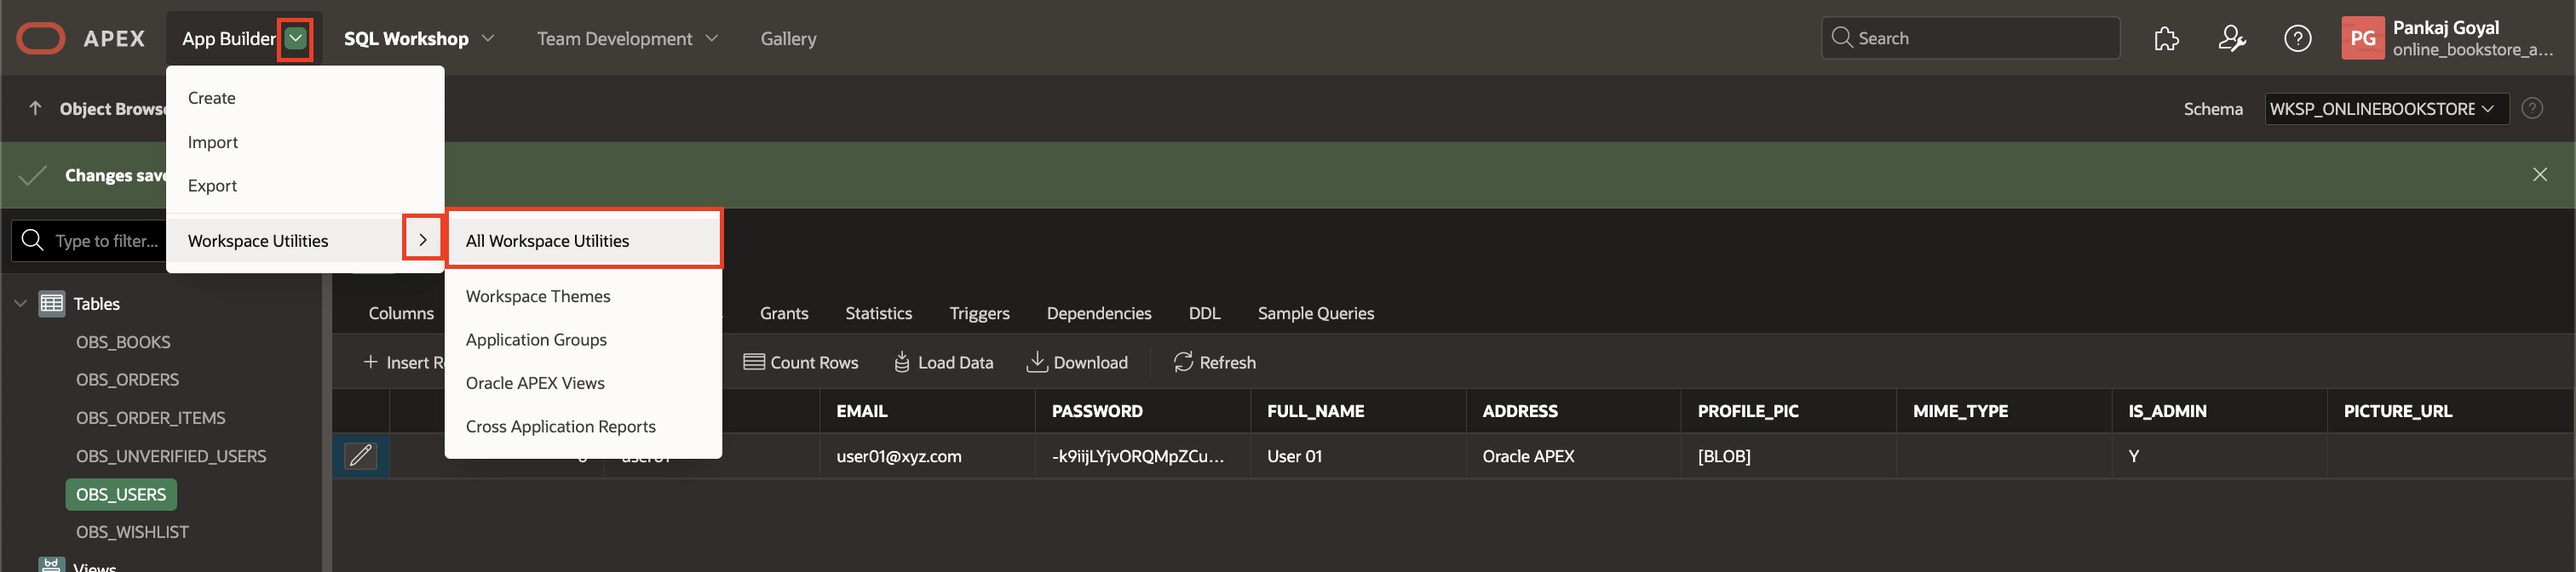
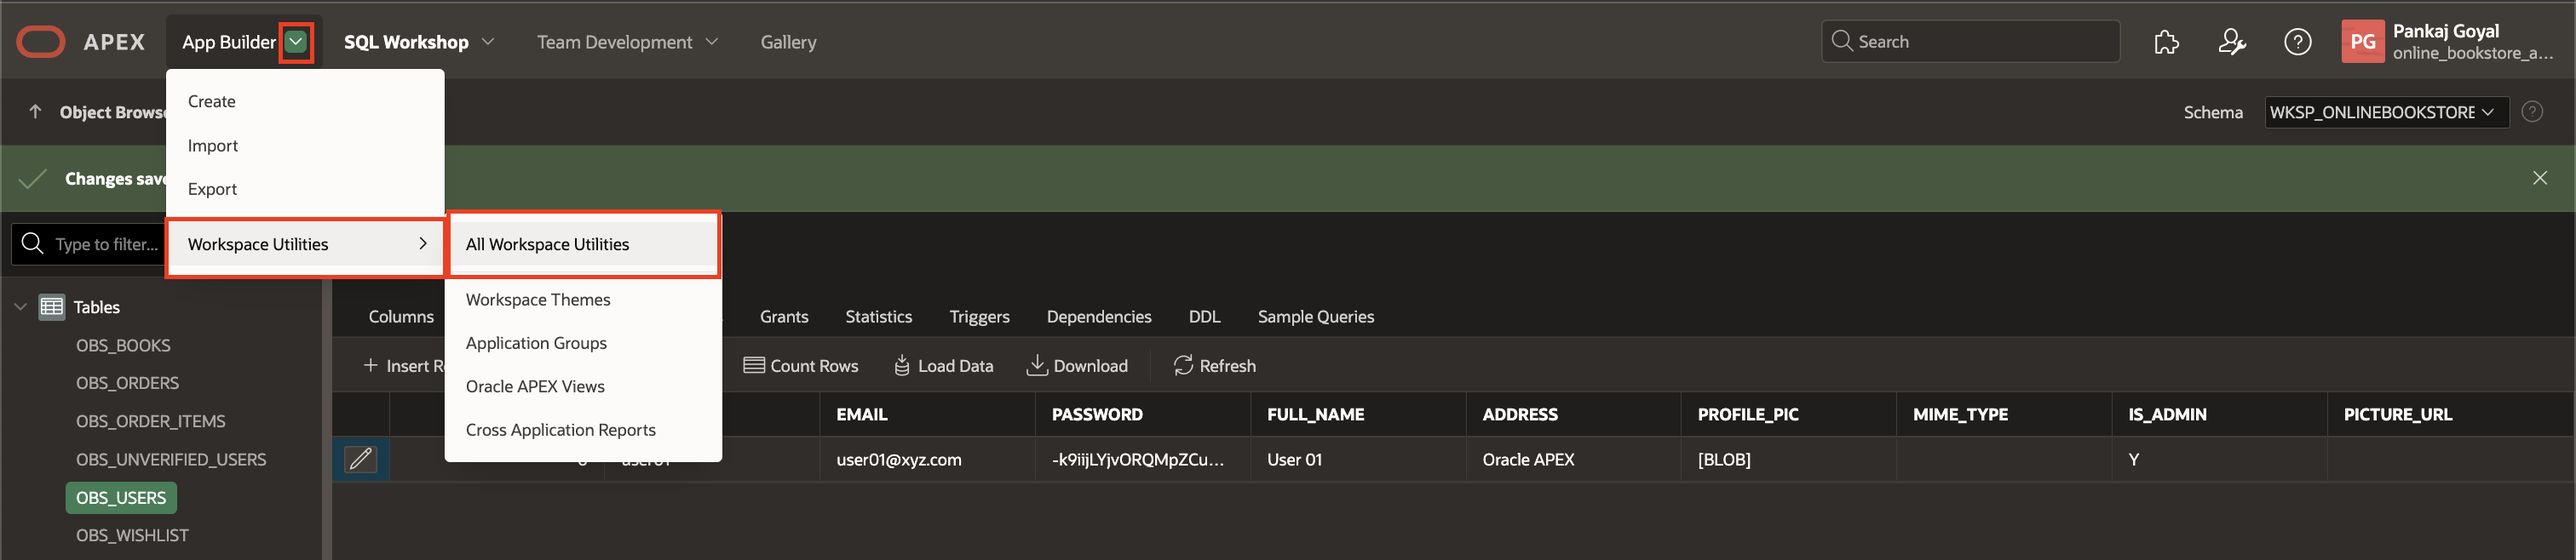
OBS 24.2 Feedback Fixes

diff --git a/online-bookstore-app/downloads/downloads.md b/online-bookstore-app/downloads/downloads.md
@@ -6,7 +6,7 @@ In this lab, you will learn how to download and import an export file of the app
 
 ## Task 1: Download the App Export
 
-1. Download a lab export zip file from any lab. The export file is available after the introduction in all labs. The export file in any lab contains everything completed up to before that lab. The export files in the introduction and Lab 1 are the complete app exports.
+1. Download a lab export ZIP file from any lab. The export file is available after the introduction in all labs. Each export file contains everything completed up to the start of that specific lab. The export files in the Introduction and Lab 1 contain the complete app export, which includes everything completed in all the labs except for the optional Lab 18.
 
 ## Task 2: Import the App into an APEX Workspace
 
@@ -48,7 +48,7 @@ In this lab, you will learn how to download and import an export file of the app
 
 ## Task 4: Update the Web Credential and Generative AI
 
-Note: If you already have an OCI key pair, you may skip the step 1.
+Note: If you already have an OCI key pair, you may skip Step 1.
 
 To Generate the API Keys using OCI Console:
 
@@ -56,7 +56,7 @@ To Generate the API Keys using OCI Console:
 
 To Configure Web Credentials in Oracle APEX:
 
-2. Expand **App Builder**, then **All Workspace Utilities** and click **Workspace Utilities**.
+2. Expand **App Builder**, then select **All Workspace Utilities** and click **Workspace Utilities**.
 
     !["Page Designer"](images/19-4-2.png "")
 
@@ -68,7 +68,7 @@ To Configure Web Credentials in Oracle APEX:
 
     !["Page Designer"](images/19-4-4.png "")
 
-5. Enter the following details using the configuration file you copied in the step 7 and click **Apply Changes**.
+5. Enter the following details using the configuration file you copied and click **Apply Changes**.
 
     - **OCI User ID**: Enter the OCID of the Oracle Cloud user Account. You can find the OCID in the Configuration File Preview generated during the API Key creation.
     Your OCI User ID looks similar to **ocid1.user.oc1..aaaaaaaa\*\*\*\*\*\*wj3v23yla**
@@ -125,7 +125,7 @@ To Enable Generative AI in Oracle APEX:
 
     !["Page Designer"](images/19-5-6.png "")
 
-7. Click **Picture\_URL**.
+7. Click **PICTURE\_URL**.
 
     !["Page Designer"](images/19-5-7.png "")
 
@@ -137,7 +137,7 @@ To Enable Generative AI in Oracle APEX:
 
 1. To create an Google API Key, Refer to [Task 5: Login with Google](?lab=12-onboarding#Task5:LoginwithGoogle) of [Lab 12: Improve User Onboarding](?lab=12-onboarding), following steps 1 to 10.
 
-2. Expand **App Builder**, then **All Workspace Utilities** and click **Workspace Utilities**.
+2. Expand **App Builder**, then select **All Workspace Utilities** and click **Workspace Utilities**.
 
     !["Page Designer"](images/19-6-2.png "")
 
@@ -239,7 +239,7 @@ To Enable Generative AI in Oracle APEX:
 
 1. To create an Razorpay API Key, Refer to [Task 1: Create Web Credential](?lab=15-razorpay-payement-integration#Task1:CreateWebCredential) of [Lab 15: Razorpay Payment Gateway Integration](?lab=15-razorpay-payement-integration), following steps 1 to 4.
 
-2. Expand **App Builder**, then **All Workspace Utilities** and click **Workspace Utilities**.
+2. Expand **App Builder**, then select **All Workspace Utilities** and click **Workspace Utilities**.
 
     !["Page Designer"](images/19-9-2.png "")
 

diff --git a/online-bookstore-app/10-add-user/10-add-user.md b/online-bookstore-app/10-add-user/10-add-user.md
@@ -927,7 +927,7 @@ In this task, you will learn how to configure RESTful services to handle user pr
 
    ![close dialog](images/10-5-create-handler1.png " ")
 
-9. Copy the **Full URL** and replace the id with user\_id to use in the step 14.
+9. Copy the **Full URL** and save it. We will use this information in Step 14.
 
     ![close dialog](images/10-5-copy-url.png " ")
 
